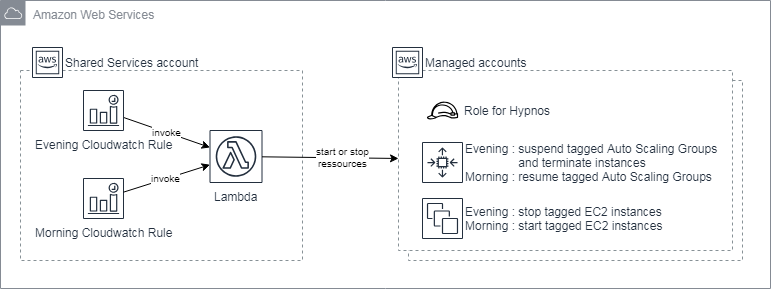
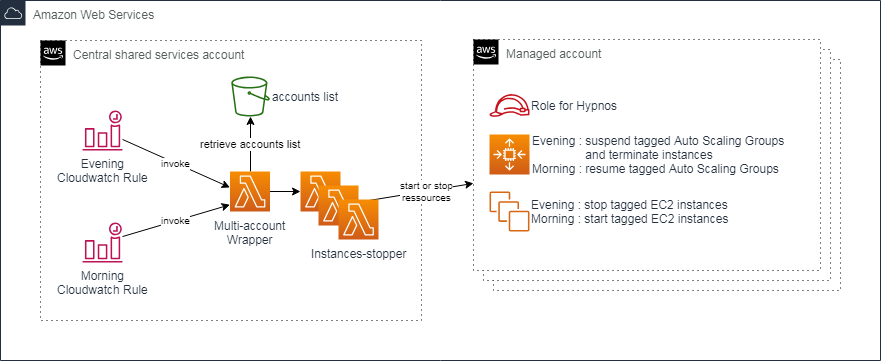
add multiaccount support

Changed region(s): [[0.0, 0.0, 1.0, 1.0], [0.0311, 0.872, 0.4047, 0.9031]]

diff --git a/hypnos-stop-instances.py b/hypnos-stop-instances.py
@@ -7,17 +7,25 @@ def lambda_handler(event, context):
 
     print("Received event : " + json.dumps(event, indent=2))
     action=event['action']
-    role_arn=event['role_arn']
+    role=event['role']
+    account=event['account']
+    mode=event['mode']
     print("Action : %s" % (action))
-    print("Role Arn : %s" % (role_arn))
+    print("Role to assume : %s" % (role))
+    print("Account to use : %s" % (account))
+    print("Mode : %s" % (mode))
 
     if action not in ["stop", "start", "list"]:
-        raise Exception('No action defined !')
+        raise Exception('No valid action defined !')
 
-    session = get_session(role_arn=role_arn, session_name='hypnos_lambda')
+    session = get_session(role=role, account=account, session_name='hypnos_lambda')
 
-    asgNameList = retreiveAsgList(session)
-    instancesTaggedForNbhStop = retrieveInstancesTaggedToStopList(session)
+    if mode == "tagged":
+      asgNameList = retreiveAsgList(session)
+      instancesTaggedForNbhStop = retrieveInstancesTaggedToStopList(session)
+    else:
+      asgNameList = retreiveAllAsgList(session)
+      instancesTaggedForNbhStop = retrieveAllStandaloneInstances(session)
 
     returnCode=True
 
@@ -66,12 +74,13 @@ def lambda_handler(event, context):
         'Return status' : returnCode
     }
 
-def get_session(role_arn=None, session_name='my_session'):
+def get_session(role=None, account=None, session_name='my_session'):
 
-    # If the role_arn is given : assumes a role and returns boto3 session
+    # If the role is given : assumes a role and returns boto3 session
     # otherwise : returns a regular session with the current IAM user/role
-    if role_arn:
+    if role:
         client = boto3.client('sts')
+        role_arn = 'arn:aws:iam::' + account + ':role/' + role
         response = client.assume_role(RoleArn=role_arn, RoleSessionName=session_name)
         session = boto3.Session(
             aws_access_key_id=response['Credentials']['AccessKeyId'],
@@ -134,6 +143,18 @@ def retreiveAsgList(session):
 
     return asgNameList
 
+def retreiveAllAsgList(session):
+
+    client = session.client('autoscaling')
+    response = client.describe_auto_scaling_groups(MaxRecords=100)
+    as_groups = response.get('AutoScalingGroups')
+
+    asgNameList=[]
+    for asg in as_groups:
+        asgNameList.append(asg.get('AutoScalingGroupName'))
+        
+    return asgNameList
+
 def retreiveInstancesToTerminateList(session, asgNameList):
 
     instance_ids=[]
@@ -161,6 +182,21 @@ def retrieveInstancesTaggedToStopList(session):
         StoppedTaggedInstances.append(instance.id)
 
     return StoppedTaggedInstances
+
+def retrieveAllStandaloneInstances(session):
+
+    ec2resource = session.resource('ec2')
+    
+    # get a list of all instances
+    all_running_instances = [i for i in ec2resource.instances.filter(Filters=[{'Name': 'instance-state-name', 'Values': ['running']}])]
+
+    # get instances which belong to an ASG
+    asg_instances = [i for i in ec2resource.instances.filter(Filters=[{'Name': 'tag-key', 'Values': ['aws:autoscaling:groupName']}])]
+
+    # filter from all instances_asg the instances that are not in the filtered list
+    instances_id_to_stop = [running.id for running in all_running_instances if running.id not in [i.id for i in asg_instances]]
+        
+    return instances_id_to_stop
 
 def stopInstances(session, ec2instanceIds):
 
@@ -203,3 +239,4 @@ def isExistsAsg(session, asgName):
         return False
     else:
         return True
+

diff --git a/hypnos-wrapper.py b/hypnos-wrapper.py
@@ -1,0 +1,50 @@
+import boto3
+import json
+import os
+
+def lambda_handler(event, context):
+
+    print("Received event : " + json.dumps(event, indent=2))
+    action=event['action']
+    print("Action : %s" % (action))
+
+    ROLE = os.environ['ROLE_TO_ASSUME']
+    LAMBDA_TO_CALL = os.environ['LAMBDA_TO_CALL']
+
+    if action not in ["stop", "start", "list"]:
+        raise Exception('No valid action defined !')
+
+    accountList=getAccountsList()
+    if type(accountList) != list:
+        raise Exception('No valid list of accounts !')
+
+    client = boto3.client('lambda')
+
+    for account in accountList:
+        print ("Launching action %s on %s account with role %s" % (action, account,ROLE))
+        response = client.invoke(
+            FunctionName=LAMBDA_TO_CALL,
+            InvocationType='Event',
+            Payload=json.dumps({'action': action, 'account': account, 'role': ROLE, 'mode': 'tagged'})
+        )
+
+def getAccountsFromOu(OrganizationUnit):
+    client = boto3.client('organizations')
+    accountsFromOu = client.list_accounts_for_parent(ParentId=OrganizationUnit)
+    accounts = [account['Id'] for account in accountsFromOu['Accounts']]
+    return accountsIds
+
+def getAccountsList():
+    CONFIGFILE_BUCKET = os.environ['CONFIGFILE_BUCKET']
+    CONFIGFILE_NAME = os.environ['CONFIGFILE_NAME']
+    tempFile = '/tmp/accounts.list'
+    accountList=[]
+
+    s3client = boto3.client('s3')
+    s3client.download_file(CONFIGFILE_BUCKET, CONFIGFILE_NAME, tempFile)
+    for line in open(tempFile):
+      li=line.strip()
+      if not li.startswith("#"):
+        accountList.append(line.rstrip())
+    return accountList
+

diff --git a/README.md b/README.md
@@ -1,34 +1,101 @@
 # AWS Hypnos
 
+Hypnos takes care of your security and costs by turning down AWS ressources during non-business hours.
+
 ## Description
 
-AWS Hypnos is capable to stop AWS resources during non-business hours for costs and security optimizations
+AWS Hypnos is capable to stop AWS resources during non-business hours for costs and security optimizations.
+
+More precisely, at evening :
+- suspends auto-scaling groups activity and terminates the instances
+- stops standalone EC2 instances
+
+In the morning of business day :
+- resumes the auto-scaling groups activity, which triggers the new instances creation
+- starts standalone EC2 instances 
+
+Hypnos works for multiple accounts : just add them in the file stored in S3
+
+It is also capable of two modes :
+- all : handles of ressources of the account
+- taggued : only looks for tagged ressources and avoid the other ones 
 
 ## Content
 
 There is :
-- one stack for the admin account (usually the sharedservices account within a multi-account context)
+- one stack for the central account (usually the sharedservices account within a multi-account context)
 - one stack to deploy per spoke account with one IAM role
 
 ## Design
 
+### Diagram
 ![Hypnos Diagram](images/hypnos-diagram.png)
 
-There is one Lambda in one admin account triggered by Cloudwatch Event rules.
+### Cloudwatch Rules
 
-The Lambda needs two parameters :
+The two Cloudwatch rules trigger the wrapper lambda depending on the configured settings in the Cloudformation :
+- at the end of business hours,
+- at the beginning of business hours
+
+### Wrapper Lambda
+
+There is one wrapper Lambda in the central account triggered by Cloudwatch Event rules. It collects from an S3 bucket the accounts list to perform and asynchronously invokes lambda for each target account.
+
+The wrapper lambda needs one parameters :
 - action : start, stop or list
-- role_arn : the role to assume
 
-At the end of business hours, the Cloudwatch Rule invokes Hypnos Lambda which :
+### Central Lambda
+
+The business lambda assumes a role on the external child account and performs the stop activity.
+
+The Lambda needs three parameters :
+- action : start, stop or list
+- account : AWS account to work with
+- mode : use "all" to handle all the autoscaling groups and EC2 instances. Or use "tagged" to only work with tagged instances.
+
+For a stop action, Hypnos Lambda :
 - looks for tagged autoscaling groups, suspends them and terminates all the attached instances
 - looks for tagged EC2 instances and stops them
 
-At the beginning of business hours, the Cloudwatch Rule invokes Hypnos Lambda which :
+For a start action, Hypnos Lambda :
 - looks for concerned autoscaling groups and resumes them. Then, the ASG is launching instances corresponding to the Desired capacity setting
 - looks for tagged EC2 instances and starts them
 
+For a list action, Hypnos Lambda :
+- only displays concerned ressources without any action (dry run)
+
+## How to use Hypnos as a child account user
+
+In the child account point of view, there is no business logic to develop. The only thing to do is to add the appropriate tag to the concerned ressouces : NonBusinessHoursState 
+
+The NonBusinessHoursState tag values could be :
+- terminated : for auto-scaling groups, terminates the attached instances
+- running : keep instances running during non-business hours
+- stopped : for standalone instances, stop them during non-business hours
+
+It is a good pratice to define different behaviours depending on the environment. With Cloudformation, use mappings :
+
+```
+Mappings:
+  EnvironmentMap:
+    dev:
+      TagNonBusinessHoursState: 'terminated'
+    uat:
+      TagNonBusinessHoursState: 'terminated'
+    prod:
+      TagNonBusinessHoursState: 'running'
+```
+
+And retreive the value later for the tag value :
+
+```
+- Key: NonBusinessHoursState
+  Value: !FindInMap [EnvironmentMap, !Ref Environment, TagNonBusinessHoursState]
+  PropagateAtLaunch: 'true'
+```
+
 ## Limitations
 
-The actual implementation only takes into account the same region.
+- only supports up to 100 autoscaling groups per account
+- only takes into account the same AWS region
 
